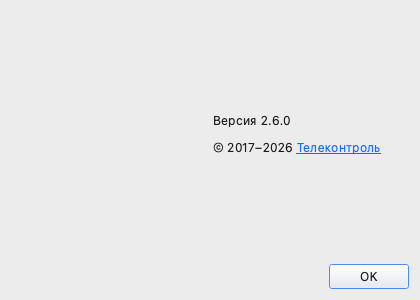
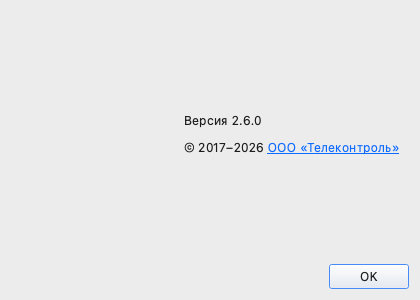
legal: name the registered entity, not the trading name (788)
Note A(i) of the exception said a section 7 grant has to identify who is
granting it well enough to be binding, and "Telecontrol" is a trading name.
The registered entity is Telecontrol, Ltd. (OOO "Telekontrol"), and it now
appears in every place the holder is asserted:

  client/LICENSE-EXCEPTION.txt   clause 1, which also defines "the Licensor"
                                 so clause 4 stops repeating the name
  client/COPYRIGHT               the notice covering the work
  client/README.md               the same notice
  display/.../runtime/LICENSE.txt  the binary's own copyright line
  the About dialog               (C) 2017-2026 OOO "Telekontrol"

THE ABOUT DIALOG WAS A JUDGEMENT CALL AND THE OTHER WAY IS ONE LINE. The line
it feeds is a copyright notice, and a notice naming something that is not a
legal person asserts nothing -- so it names the entity, and COPYRIGHT's "Scope
of this notice" can keep listing the About box as one of the three places the
notice lives. The alternative is to keep the brand name there, on the view
that an About box is branding and the authoritative notice is COPYRIGHT. If
that is wanted, change `tr("Telecontrol, Ltd.")` back and drop the About box
from COPYRIGHT's list; the comment at that line says so.

The Latin form is primary in the legal documents because the permission is
read by people who do not read Cyrillic, with the registered Cyrillic form in
parentheses so the entity is identifiable in the register it is actually in.
[…]

Changed region(s): [[0.4333, 0.45, 0.9595, 0.54], [0.4333, 0.39, 0.7119, 0.42]]

diff --git a/app/qt/client_ru.ts b/app/qt/client_ru.ts
@@ -2858,8 +2858,8 @@
     </message>
     <message>
         <location filename="../../modules/about/qt/about_dialog.cpp" line="23"/>
-        <source>Telecontrol</source>
-        <translation>Телеконтроль</translation>
+        <source>Telecontrol, Ltd.</source>
+        <translation>ООО «Телеконтроль»</translation>
     </message>
 </context>
 <context>

diff --git a/modules/about/qt/about_dialog.cpp b/modules/about/qt/about_dialog.cpp
@@ -27,7 +27,18 @@ class AboutDialog : public QDialog {
         QIcon{QStringLiteral(":/icons/app-mark.svg")}.pixmap(64, 64));
 
     auto version = tr("Version %1").arg(PROJECT_VERSION_DOTTED_STRING);
-    auto organization_name = tr("Telecontrol");
+    // The REGISTERED ENTITY, not the trading name, because the line this
+    // feeds is a copyright notice and a notice naming something that is not a
+    // legal person asserts nothing. It is the same string as COPYRIGHT and as
+    // clause 1 of LICENSE-EXCEPTION.txt, and the three must agree: an operator
+    // reading the About box and a lawyer reading the exception have to be
+    // looking at the same holder.
+    //
+    // If the brand name is wanted here instead, this is the one line to change
+    // -- but then the About box stops being one of the places the notice is
+    // asserted, and COPYRIGHT's "Scope of this notice" has to stop saying it
+    // is.
+    auto organization_name = tr("Telecontrol, Ltd.");
     // The range this work is claimed over, not the year the dialog was
     // written. It ran as a bare 2018 until 2026-09-20, which understated it at
     // both ends: this repository's first commit is 2017-08-24 and it is still

diff --git a/README.md b/README.md
@@ -253,7 +253,7 @@ that is exploitable should not be public before there is a fix to upgrade to.
 
 ## License
 
-Copyright (C) 2017-2026 Telecontrol.
+Copyright (C) 2017-2026 Telecontrol, Ltd. (ООО "Телеконтроль").
 
 GPL-3.0 — see [LICENSE](LICENSE) for the licence text and
 [COPYRIGHT](COPYRIGHT) for the notice that covers this work. Third-party asset
